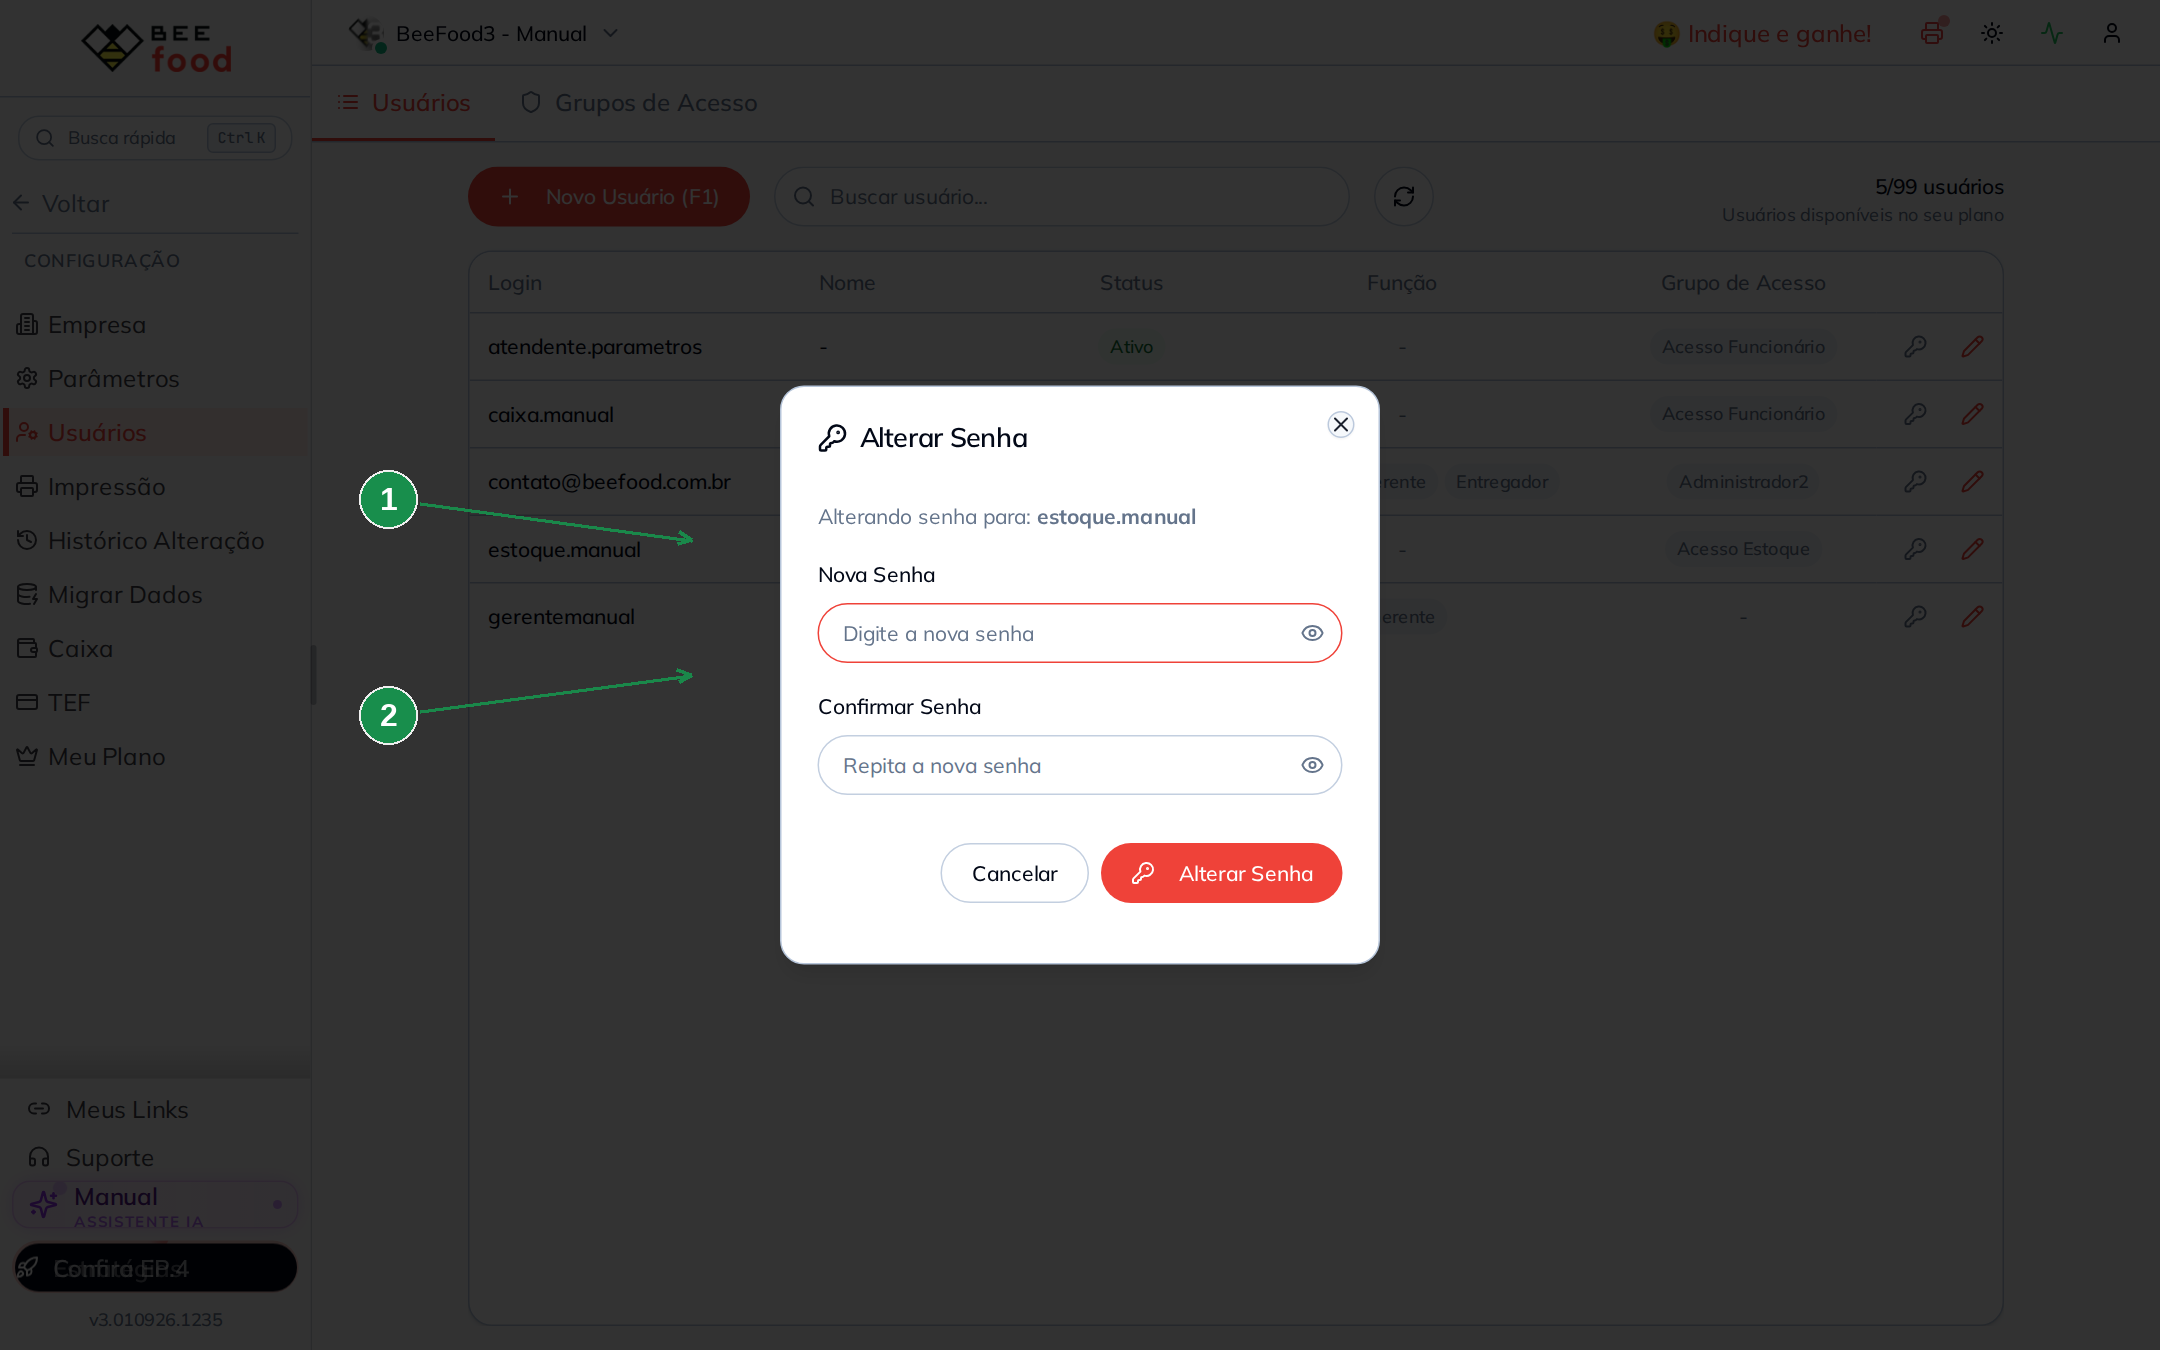
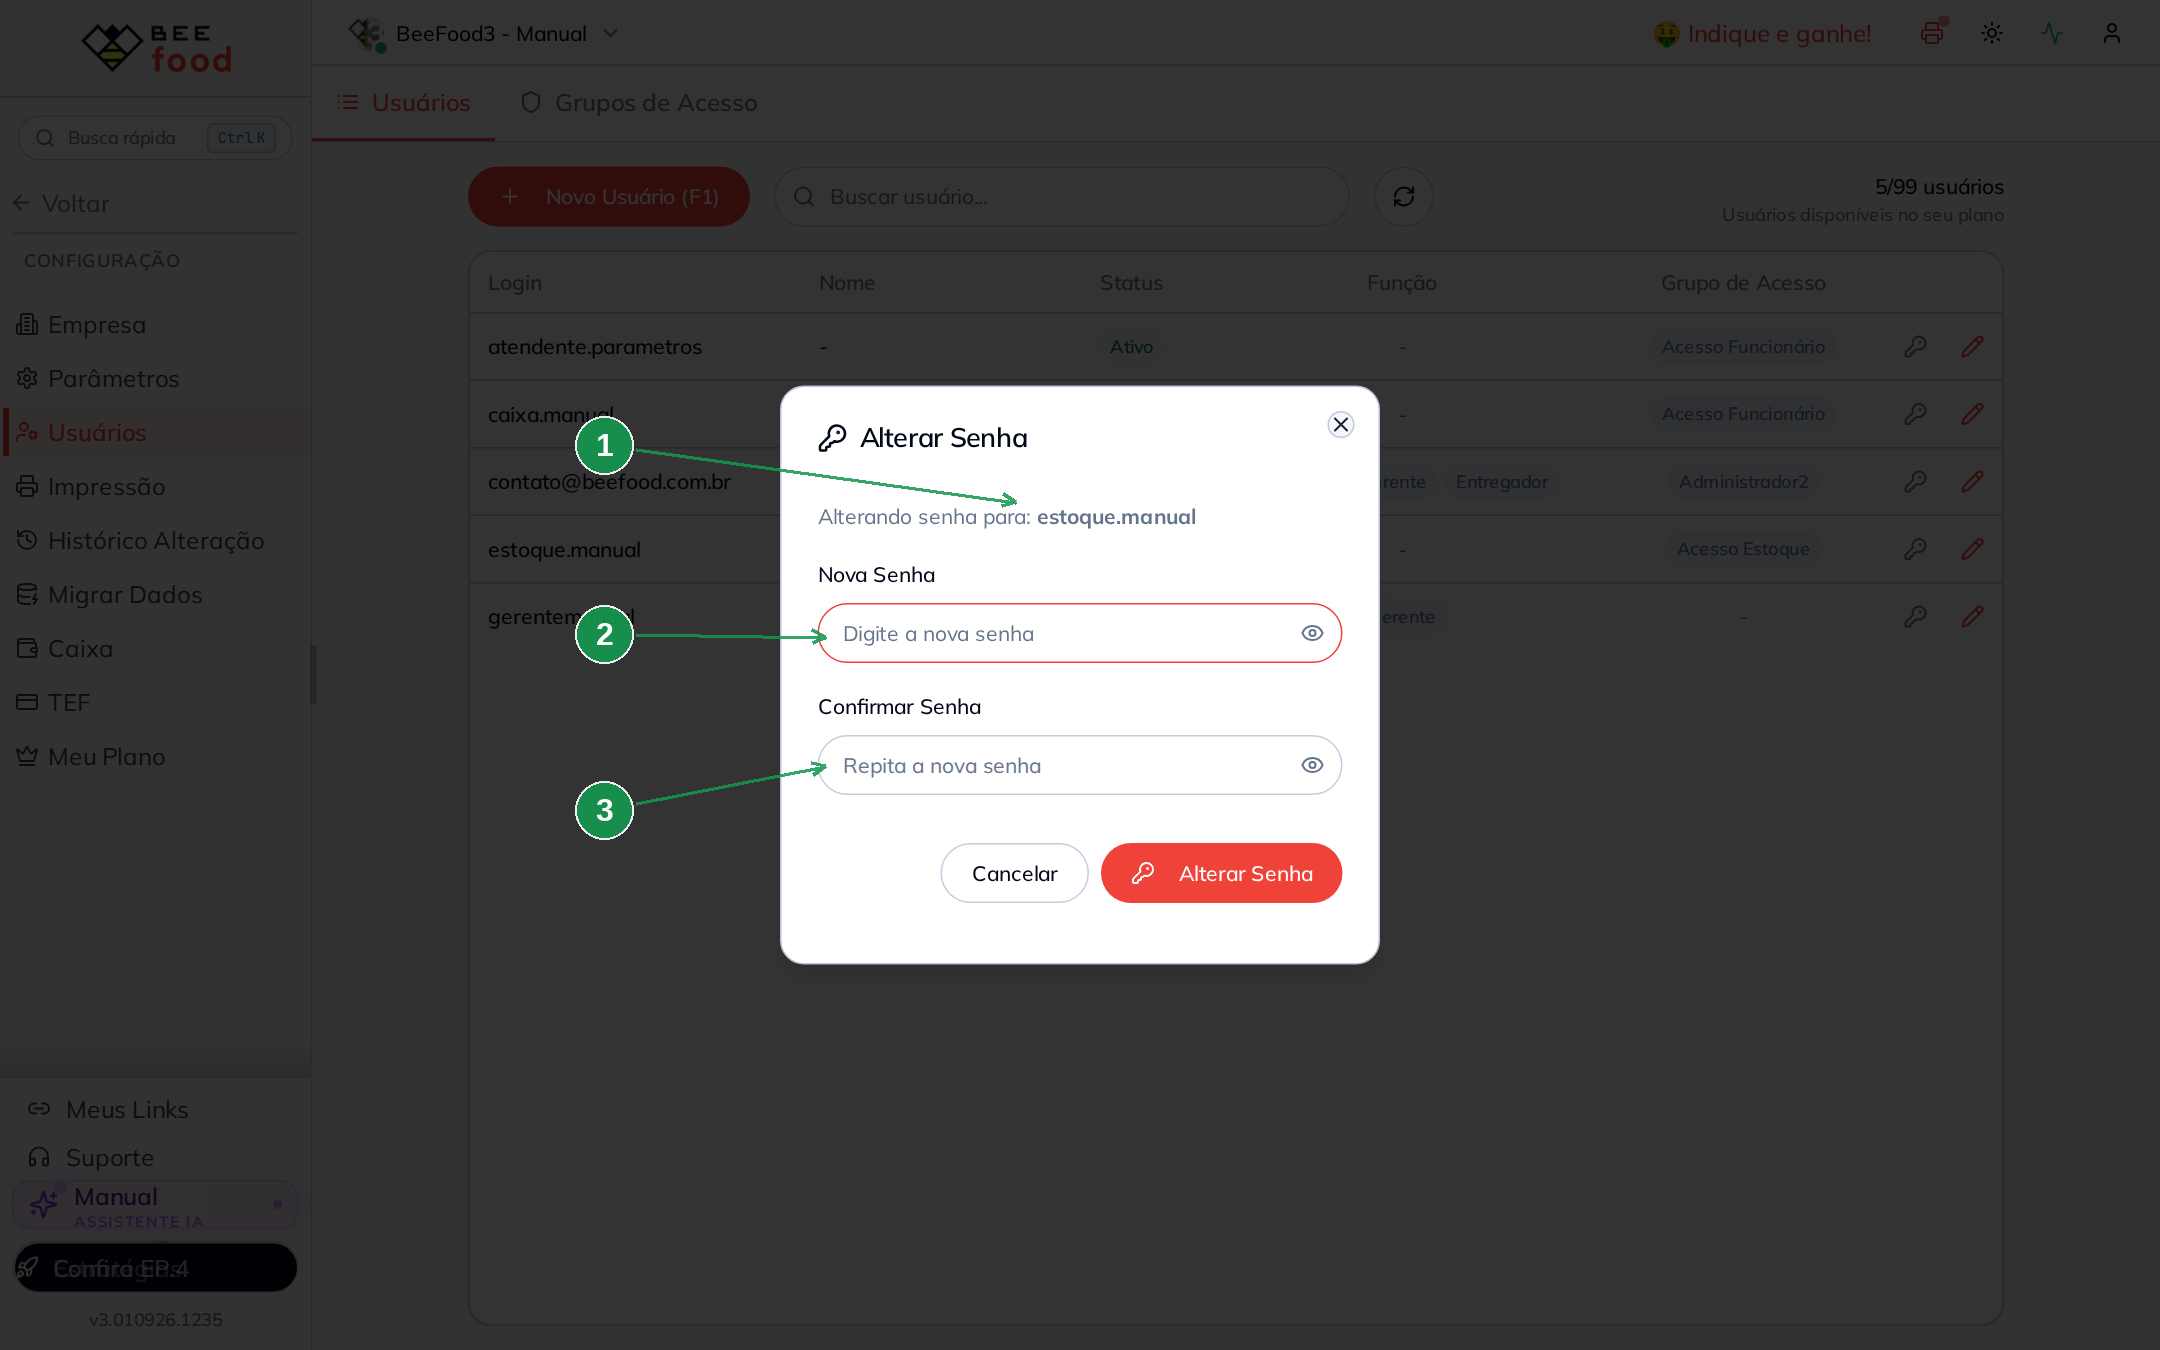
docs(#73): ajusta setas e usa o modal de grupo preenchido

diff --git a/manuais/usuarios-criar/annotate.py b/manuais/usuarios-criar/annotate.py
@@ -138,15 +138,15 @@ annotate("01-aba-usuarios-limite-do-plano.png", [
 # Passo 1 — criar o grupo
 # =====================================================================
 
-annotate("05-modal-novo-grupo-vazio.png", [
-    (1, 0.400, 0.262, 0.180, 0.230),   # campo do nome do grupo
-    (2, 0.660, 0.360, 0.830, 0.330),   # aviso de que as permissoes vem depois
+annotate("06-modal-novo-grupo-preenchido.png", [
+    (1, 0.258, 0.497, 0.180, 0.470),   # campo do nome do grupo
+    (2, 0.725, 0.600, 0.800, 0.660),   # Salvar (so habilita com o nome preenchido)
 ])
 
 annotate("07-grupo-novo-permissoes-iniciais.png", [
     (1, 0.400, 0.253, 0.180, 0.210),   # nome do grupo salvo
     (2, 0.712, 0.443, 0.860, 0.420),   # todos os switches ligados
-    (3, 0.712, 0.535, 0.870, 0.560),
+    (3, 0.712, 0.638, 0.870, 0.660),
 ])
 
 # =====================================================================
@@ -174,14 +174,15 @@ annotate("10-escolher-grupo-de-acesso.png", [
 # =====================================================================
 
 annotate("13-modal-alterar-senha.png", [
-    (1, 0.320, 0.400, 0.180, 0.370),   # Nova Senha
-    (2, 0.320, 0.500, 0.180, 0.530),   # Confirmar Senha
+    (1, 0.470, 0.372, 0.280, 0.330),   # de quem e a senha
+    (2, 0.382, 0.472, 0.280, 0.470),   # Nova Senha
+    (3, 0.382, 0.568, 0.280, 0.600),   # Confirmar Senha
 ])
 
 annotate("14-usuario-principal-login-bloqueado.png", [
     (1, 0.320, 0.270, 0.180, 0.230),   # aviso Usuario principal
     (2, 0.288, 0.390, 0.180, 0.420),   # Login travado
-    (3, 0.330, 0.763, 0.180, 0.800),   # ALTERAR SENHA continua disponivel
+    (3, 0.283, 0.775, 0.180, 0.810),   # ALTERAR SENHA continua disponivel
 ])
 
 # Usuario desativado: badge Inativo e o contador do plano, que nao muda

diff --git a/manuais/usuarios-criar/usuarios-criar.md b/manuais/usuarios-criar/usuarios-criar.md
@@ -54,14 +54,15 @@ confira a aba **Grupos de Acesso** antes de criar mais um.
 
 Na aba **Grupos de Acesso**, clique em **+ Novo Grupo**.
 
-![Modal Novo Grupo de Acesso, só com o campo de nome](imagens-tratadas/05-modal-novo-grupo-vazio.png)
+![Modal Novo Grupo de Acesso, com o nome preenchido](imagens-tratadas/06-modal-novo-grupo-preenchido.png)
 
 | Nº | Item | O que fazer |
 |----|------|-------------|
 | 1 | **Descrição** | O nome do grupo. Use o cargo, não o nome da pessoa: *Acesso Estoque*, não *João*. |
-| 2 | O aviso | O sistema avisa que as permissões aparecem **depois** de salvar o grupo. |
+| 2 | **Salvar** | Fica **apagado** enquanto o nome está vazio. |
 
-Clique em **Salvar**. O grupo é criado e a lista de permissões aparece na mesma hora.
+Repare que o modal tem **só** este campo: as permissões não aparecem aqui. Clique em **Salvar** e
+o grupo é criado — e a lista de permissões surge na mesma hora, no lugar do formulário.
 
 ![O grupo recém-criado, com todas as permissões ligadas](imagens-tratadas/07-grupo-novo-permissoes-iniciais.png)
 
@@ -166,10 +167,11 @@ dentro do cadastro da pessoa — ou no ícone de chave, na linha da lista.
 
 ![Modal Alterar Senha](imagens-tratadas/13-modal-alterar-senha.png)
 
-| Nº | Campo | O que fazer |
-|----|-------|-------------|
-| 1 | **Nova Senha** | Mínimo de **4 caracteres**. |
-| 2 | **Confirmar Senha** | Repita. Se as duas não forem iguais, o sistema avisa e não salva. |
+| Nº | Item | O que fazer |
+|----|------|-------------|
+| 1 | *Alterando senha para:* | Confirme o login antes de digitar — o modal não fecha ao trocar de linha. |
+| 2 | **Nova Senha** | Mínimo de **4 caracteres**. |
+| 3 | **Confirmar Senha** | Repita. Se as duas não forem iguais, o sistema avisa e não salva. |
 
 > Você não precisa saber a senha antiga para trocar. Quem tem acesso a esta tela pode redefinir
 > a senha de qualquer usuário — mais um motivo para a permissão **Usuários** ficar só com quem
